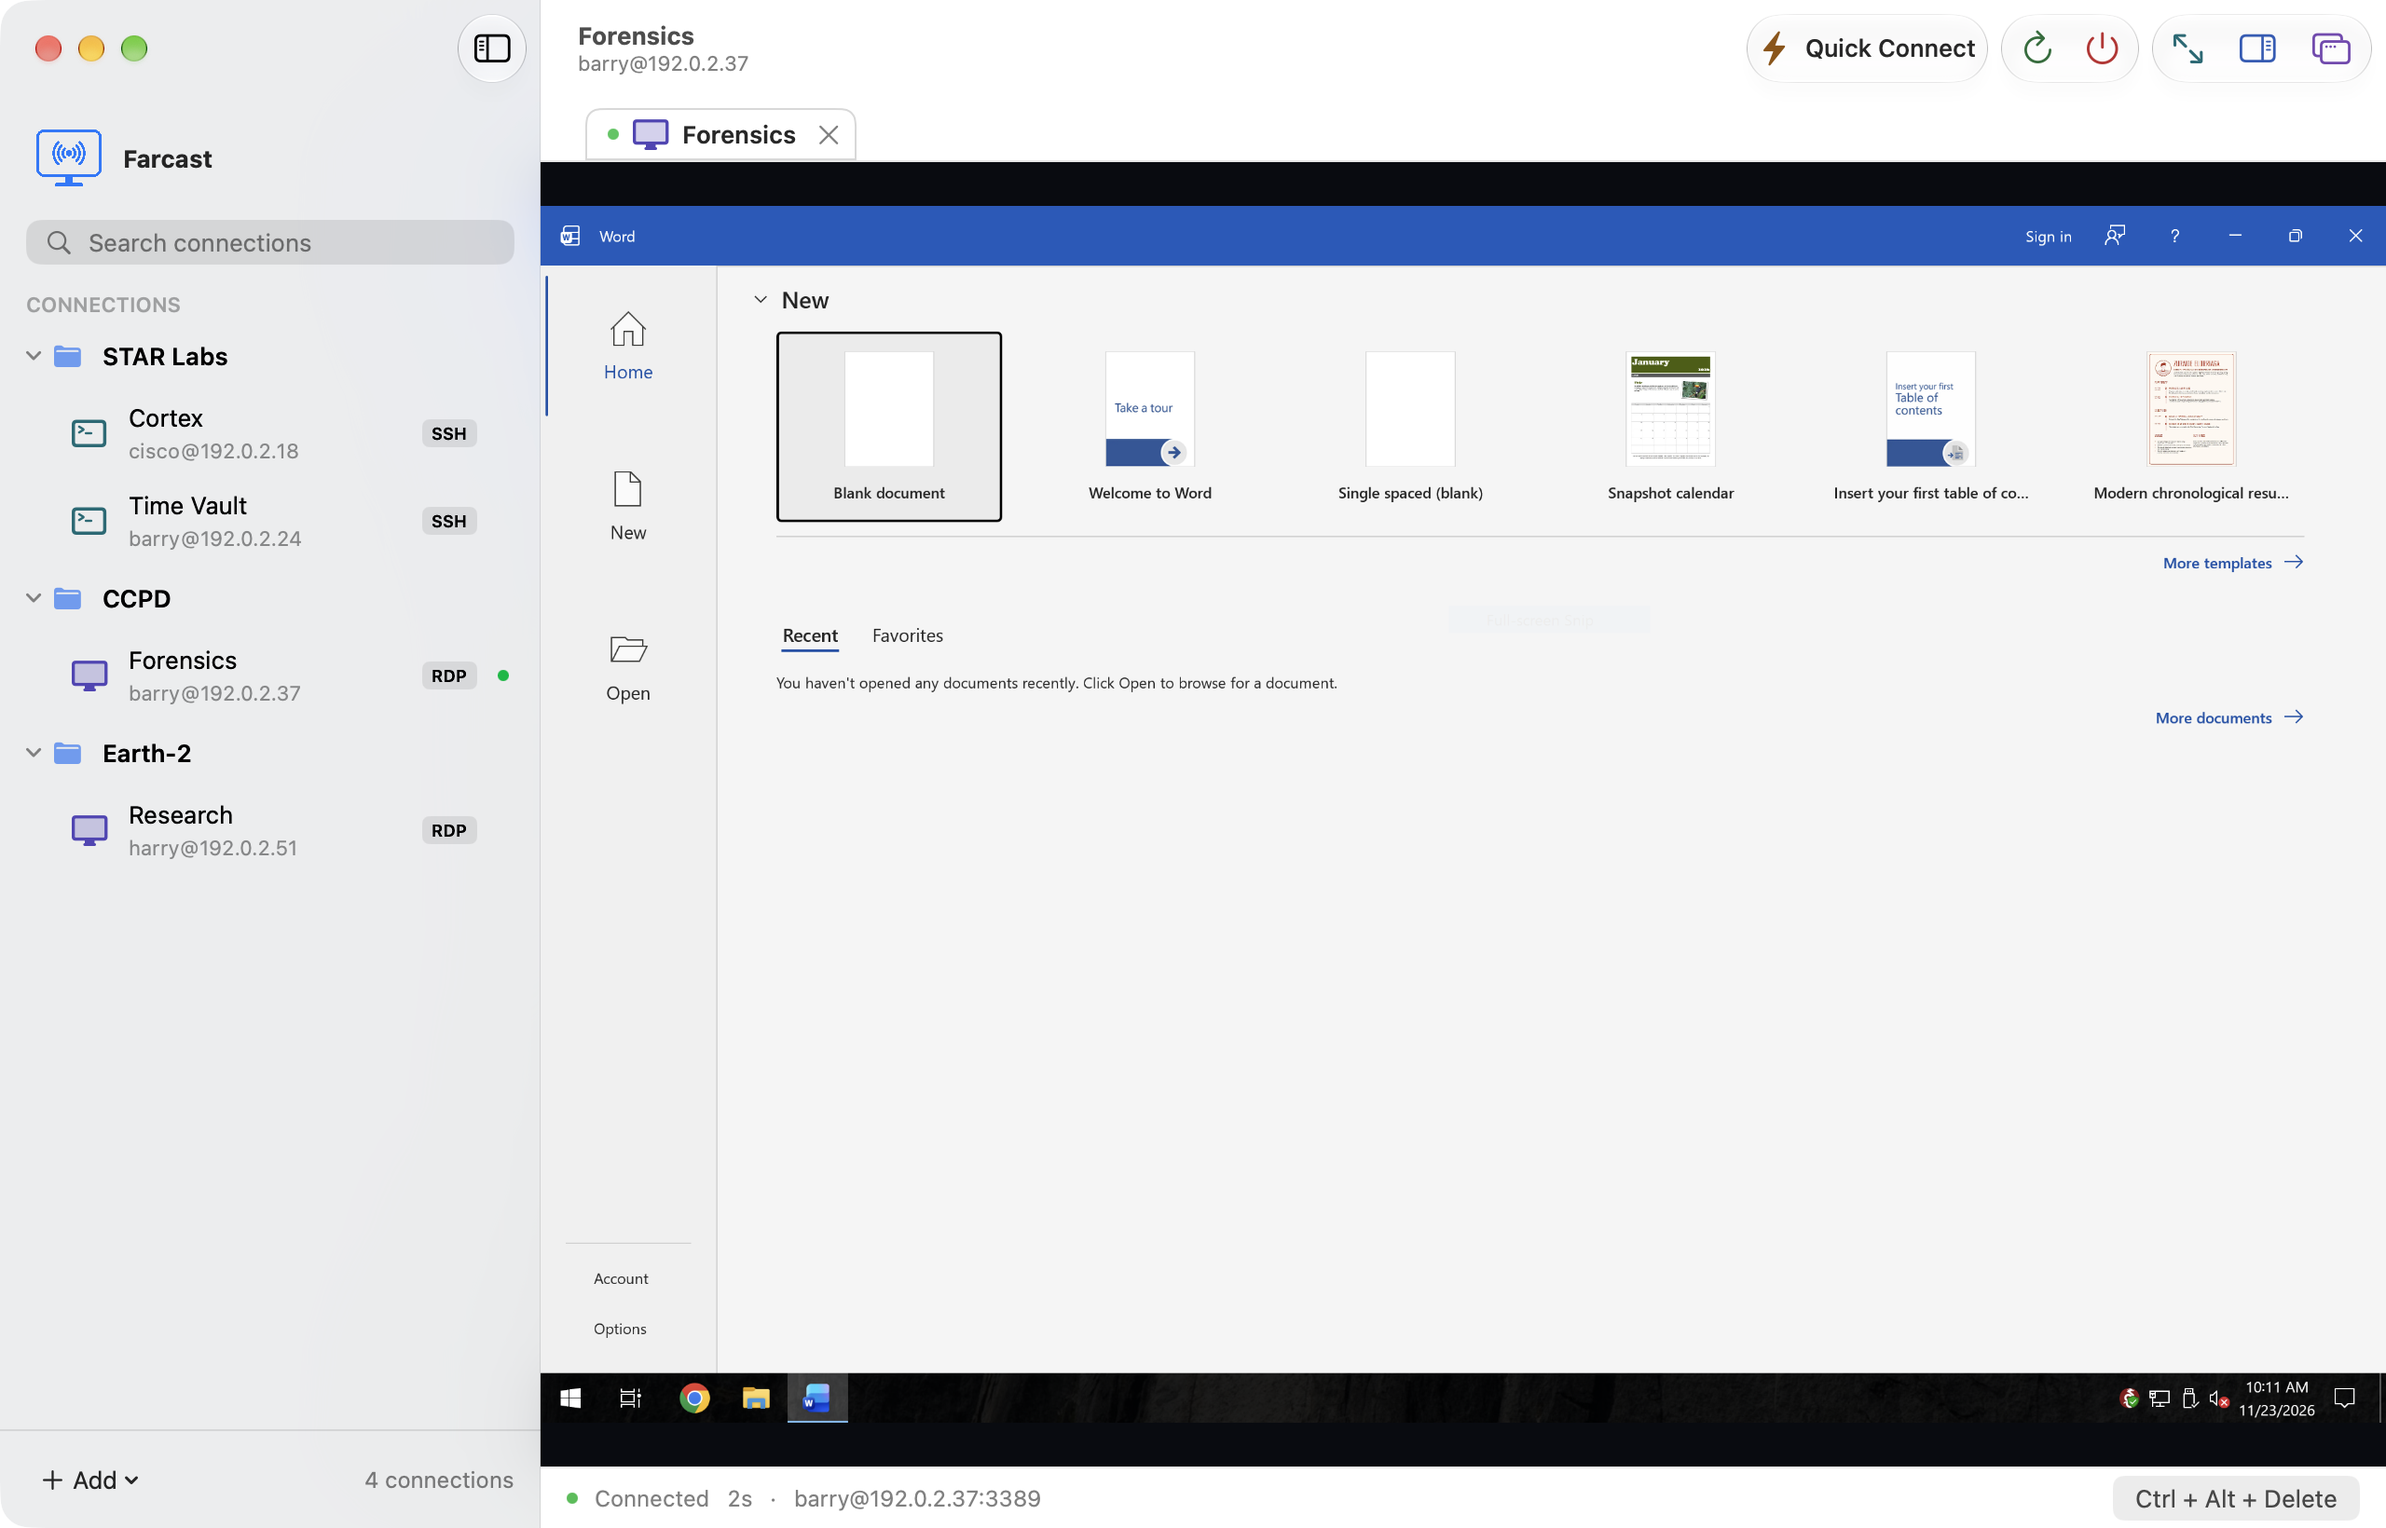
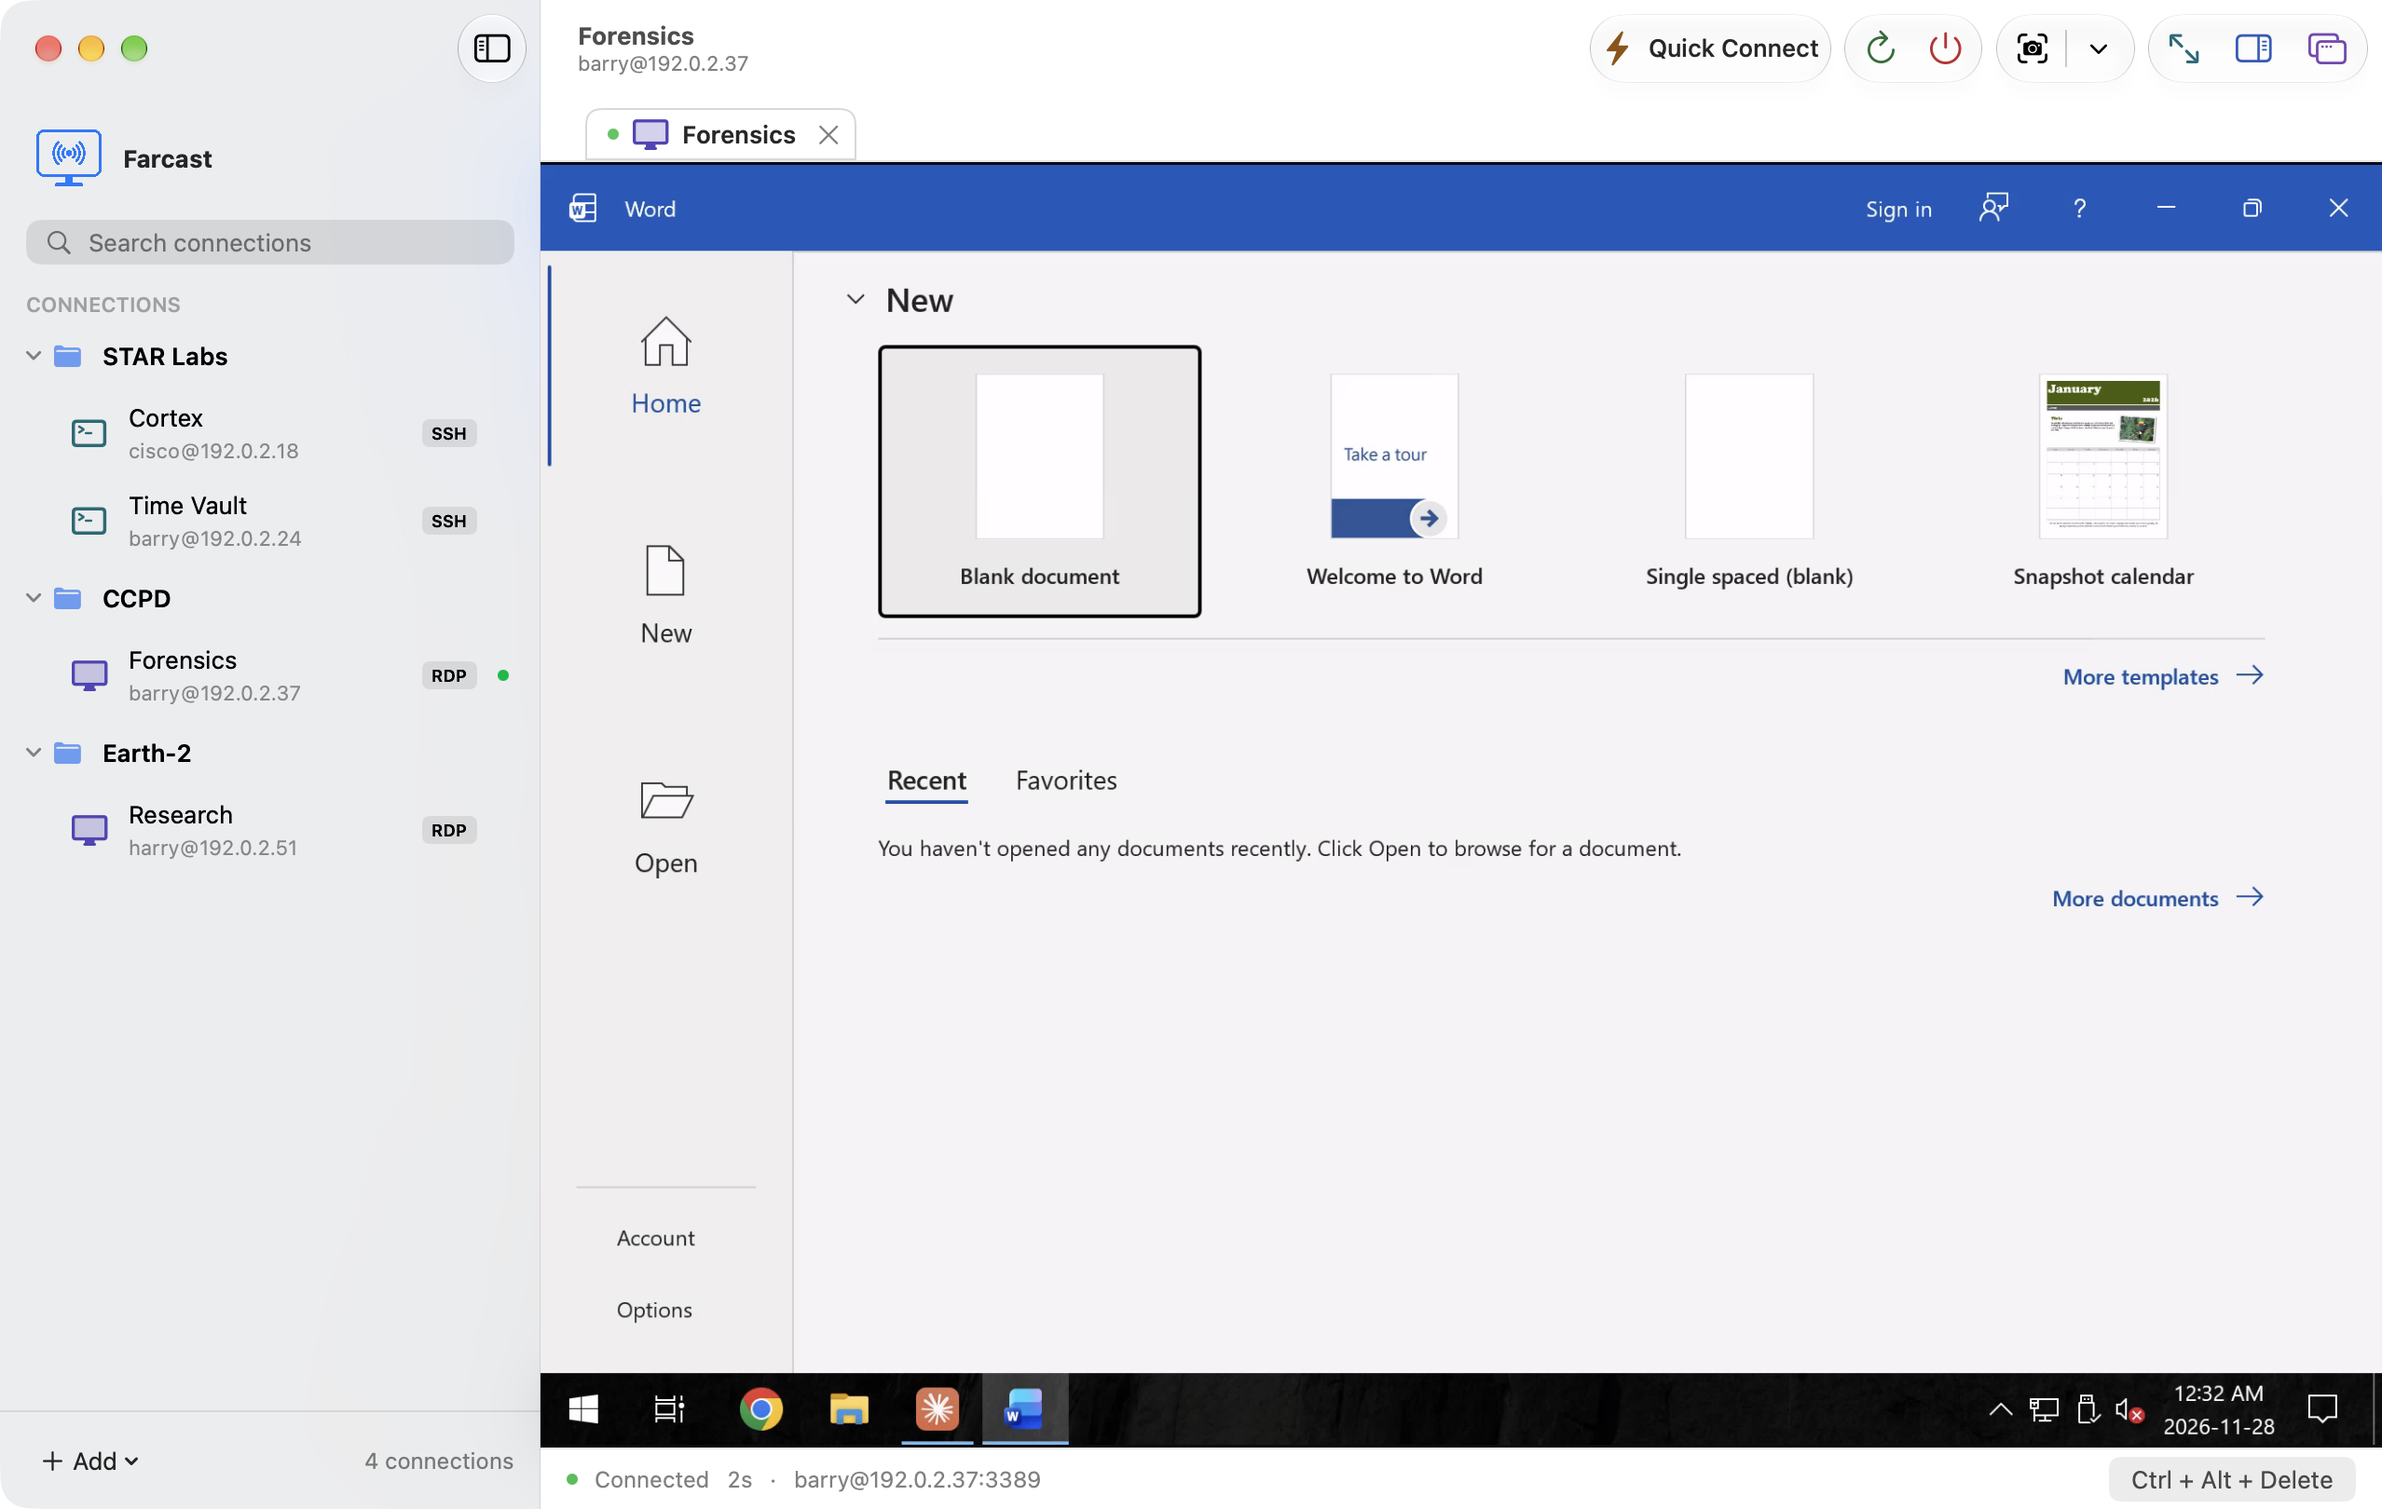
Refresh README feature overview and screenshots

diff --git a/README.md b/README.md
@@ -1,68 +1,41 @@
 # Farcast
 
-<img src="docs/images/Farcast-Icon.png" alt="Farcast app icon" width="128" height="128">
+<img src="docs/images/Farcast-Icon.png" alt="Farcast app icon" width="80" height="80">
 
-SSH terminals, rsync/SFTP file transfers and RDP/VNC desktops in one native Mac app.
-Includes saved connections, session tabs, SSH tunnels and optional shared WireGuard or OpenVPN for SSH, RDP and VNC.
+Farcast is a native Mac app for SSH terminals, file transfers, and RDP and VNC desktops. It runs on **Apple silicon with macOS 27 or later**.
 
-Farcast is free and open source under the [MIT License](LICENSE): free to download,
-use, modify and redistribute. Retain the copyright and license notice.
-[Bundled dependencies](ThirdParty/README.md) retain their own licenses.
-
-Requires **macOS 27+ and Apple silicon**. Protocol libraries are bundled.
-Local builds are Apple Development signed and unnotarized.
-Credentials use Keychain with an **unencrypted local fallback**, or an optional
-connection folder with key-file/password AES-128 encryption or unencrypted files.
-
-## Install and first launch
-
-Farcast’s local delivery is signed but **not notarized**, so macOS may block its
-first launch. Only approve a copy you trust.
-
-1. Open the DMG and drag **Farcast.app** to **Applications**. For a source build,
-   use the app path in [Build](#build) below.
-2. Open Farcast once. If macOS blocks it because the developer cannot be verified
-   or Apple cannot check it for malicious software, dismiss the alert without
-   moving the app to the Trash.
-3. Open **System Settings → Privacy & Security**, scroll to **Security**, and
-   click **Open Anyway** beside the notice about Farcast. Try opening the app
-   again if the notice is absent.
-4. Authenticate when prompted, then click **Open** to confirm.
-
-After this approval, open Farcast normally. See
-[Apple’s first-launch instructions](https://support.apple.com/en-hk/102445).
+- **Manage connections.** Organize hosts into folders, find a saved connection by name, or use Quick Connect. Switch between sessions in tabs or move one into its own window.
+- **Work over SSH.** Use a terminal, forward ports, and drag files between your Mac and the server over the same login. File transfers prefer rsync with SFTP fallback. Keep browsing while a copy runs, or jump back to a recent folder.
+- **Use a remote desktop.** Connect to Windows over RDP or to a VNC desktop. RDP supports optional clipboard and folder sharing.
+- **Route through a VPN.** Assign a WireGuard or OpenVPN profile to a connection, or choose Connect Direct for a single session.
+- **Capture a session.** Press **⇧⌘S** to save the visible terminal or desktop as PNG or JPEG, copy it to the clipboard, or both.
 
 ## Screenshots
 
-![Farcast workspace and saved connections](docs/images/Farcast-Home.png)
+**Connection library**
 
-**SSH terminal**
+<img src="docs/images/Farcast-Home.png" alt="Saved SSH and RDP connections organized into folders in the Farcast workspace" width="840">
 
-![SSH terminal and connection tabs](docs/images/Farcast-SSH.png)
+**SSH terminal and session tabs**
 
-**SFTP file transfer**
+<img src="docs/images/Farcast-SSH.png" alt="Two SSH sessions open in tabs, with a terminal showing service status" width="840">
 
-![Local and remote SFTP file panels](docs/images/Farcast-SFTP.png)
+**File transfer over SSH**
 
-**Remote desktop**
+<img src="docs/images/Farcast-SFTP.png" alt="Local and remote folders side by side while rsync uploads research-brief.pdf" width="840">
 
-<img src="docs/images/Farcast-RDP.png" alt="Windows desktop showing Microsoft Word in Farcast’s RDP session">
+**Windows desktop over RDP**
 
-**Connection editor**
+<img src="docs/images/Farcast-RDP.png" alt="Microsoft Word and the Windows taskbar inside a Farcast RDP session" width="840">
 
-<img src="docs/images/Farcast-EditConnection.png" alt="Tabbed connection editor and sign-in settings">
+**Per-connection transfer settings**
 
-## Build
+<img src="docs/images/Farcast-EditConnection.png" alt="The connection editor’s Files tab with transfer method and rsync compression settings" width="540">
 
-With Xcode and the [build prerequisites](docs/development.md#build-from-source) installed:
+## Install
 
-```sh
-scripts/prepare-dependencies.sh
-scripts/build.sh
-open ".build/Xcode/Build/Products/Release/Farcast.app"
-```
+Open the DMG and drag **Farcast.app** to **Applications**. Local builds are signed but unnotarized. If macOS blocks a copy you trust on first launch, open **System Settings → Privacy & Security → Open Anyway**, then confirm.
 
-[User guide](docs/user-guide.md) · [Development](docs/development.md) ·
-[Agent guide](AGENTS.md) · [Architecture](docs/architecture.md) ·
-[Testing](docs/testing.md) · [Known limits](docs/validation.md) ·
-[Changelog](CHANGELOG.md) · [Dependencies & licenses](ThirdParty/README.md)
+Saved credentials use Keychain when available, with an unencrypted local fallback. You can also choose a connection folder protected by a key file or password.
+
+[User guide](docs/user-guide.md) · [Build from source](docs/development.md#build-from-source) · [Changelog](CHANGELOG.md) · [MIT license](LICENSE) · [Third-party licenses](ThirdParty/README.md)
